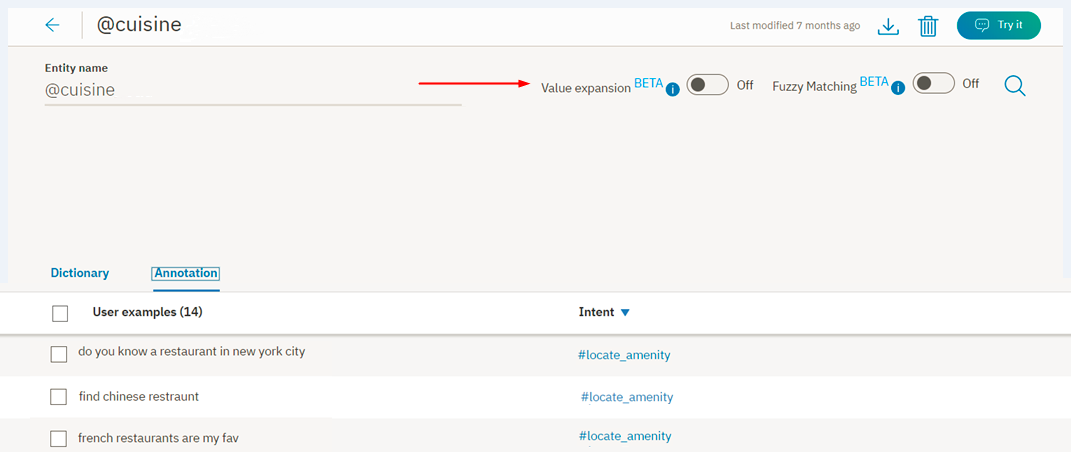
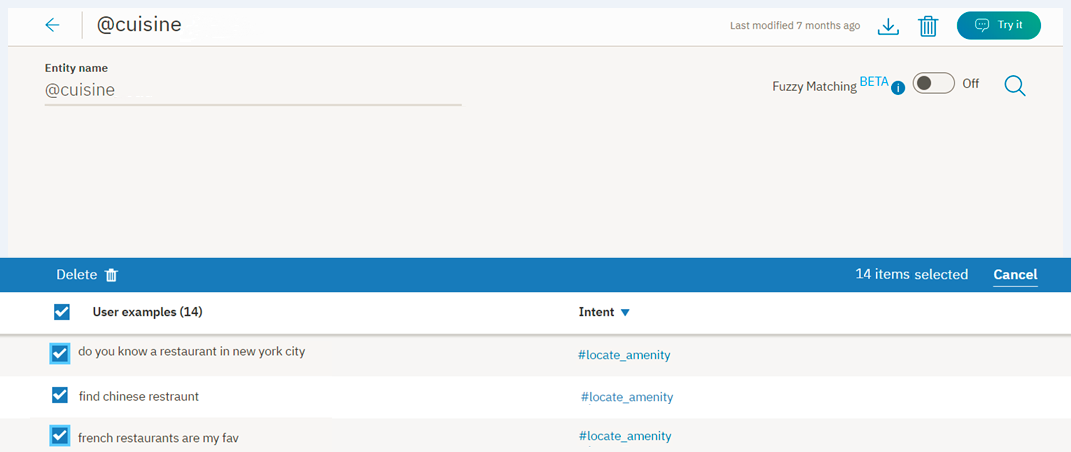
Updated contextual entities content for Beta

diff --git a/entities.md b/entities.md
@@ -2,7 +2,7 @@
 
 copyright:
   years: 2015, 2018
-lastupdated: "2018-06-12"
+lastupdated: "2018-06-26"
 
 ---
 
@@ -189,14 +189,14 @@ Use the {{site.data.keyword.conversationshort}} tool to create entities.
 
 The entity you created is added to the **Entities** tab, and the system begins to train itself on the new data.
 
-## Defining annotations for entities
+## Defining contextual entities
 
-When you define specific values for an entity, the service finds entity mentions only when a term in the user input exactly matches (or closely matches if fuzzy matching is enabled) a value or synonym defined. When you define annotations for an entity, a model is trained on both the entity *value* and the *context* in which the entity is used in sentences that you annotate. This new entity context model enables the service to calculate a confidence score that identifies how likely a word or phrase is to be an instance of an entity, based on how it is used in the user input.
+When you define specific values for an entity, the service finds entity mentions only when a term in the user input exactly matches (or closely matches if fuzzy matching is enabled) a value or synonym defined. When you define a contextual entity, a model is trained on both the entity *value* and the *context* in which the entity is used in sentences that you annotate. This new contextual entity model enables the service to calculate a confidence score that identifies how likely a word or phrase is to be an instance of an entity, based on how it is used in the user input.
 
-### Creating entity annotations from the **Intents** tab
+### Creating contextual entities from the **Intents** tab
 {: #create-open-entities}
 
-In order to train an annotated entity model, you can take advantage of your intent examples, which provide readily-available sentences to annotate. Using intent user examples to define entity annotations does not affect the classification of an intent.
+In order to train a contextual entity model, you can take advantage of your intent examples, which provide readily-available sentences to annotate. Using intent user examples to define contextual entities does not affect the classification of an intent.
 
 1.  In the {{site.data.keyword.conversationshort}} tool, open your skill and then click the **Intents** tab. If **Intents** is not visible, use the ![Menu](images/Menu_16.png) menu to open the page.
 
@@ -221,14 +221,33 @@ In order to train an annotated entity model, you can take advantage of your inte
     You can also create a new entity by choosing `@(create new entity)`.
 
 1.  Select `@product` to add `computer` as a value for that entity.
-1.  Now, click the annotation you just created. A box will appear with the words `Go to: @product` at the bottom.  Clicking that link will take you directly to the entity.
+
+    **NOTE**: You should create *at least* 10 annotations for each contextual entity; more annotations are recommended for production use.
+
+1.  Now, click the annotation you just created. A box will appear with the words `Go to: @product` at the bottom. Clicking that link will take you directly to the entity.
 
     ![Verify value computer for product entity](images/oe-verify-value.png)
+
+### Working with counterexamples
+
+If you have an intent example with an annotation, and a word in that example is part of your entity values, but the value is **not** annotated, it is considered a counterexample:
+
+1.  The `#Customer_Care_Appointments` intent includes two intent examples with the word `visit`.
+
+    ![Visit examples intent](images/oe-counter-1.png)
+
+1.  In the first example, you want to annotate the word `visit` as an entity value of the `@meeting` entity. This makes `visit` equivalent to other `@meeting` entity values such as `appointment`, as in "I'd like to make an appointment" or "I'd like to schedule a visit".
+
+    ![@meeting entity](images/oe-counter-2.png)
+
+1.  For the second example, the word `visit` is being used in a different context than a meeting. In this case, you can select the word `appointment` from the intent example, and annotate it as an entity value of the `@meeting` entity. Because the word `visit` in the same example is not annotated, it will serve as a counterexample.
+
+    ![Visit unselected](images/oe-counter-3.png)
 
 ### Viewing annotations from the **Entities** tab
 {: #annotate-open-entities}
 
-To see the intent examples you have used in annotating your entities:
+To see the intent examples you have used in annotating your contextual entities:
 
 1.  From the **Entities** tab, open an entity, for example, `@cuisine`.
 
@@ -240,11 +259,11 @@ To see the intent examples you have used in annotating your entities:
 
     If you have already [created annotated entities from the Intents tab](entities.html#create-open-entities), you will see a list of user examples with their associated intents.
 
-    If you want your entities to understand values that you have not explicitly defined, turn on the `Value expansion` option. With this option, the system makes predictions about additional entity values based on how your user examples are annotated, and uses those values to train other entities. Any similar user examples are added to the *Annotation* view, so you can see how this option impacts training.
+    **NOTE**: Contextual entities understand values that you have not explicitly defined. The system makes predictions about additional entity values based on how your user examples are annotated, and uses those values to train other entities. Any similar user examples are added to the *Annotation* view, so you can see how this option impacts training.
+
+    If you do not want your contextual entities to use this expanded understanding of entity values, select all the user examples in the *Annotation* view for that entity and choose **Delete**.
 
     ![Examples and intents list](images/oe-annotate3a.png)
-
-    **Note**: You can also delete annotations from this view by selecting user examples, and choosing **Delete**.
 
 ## Editing entities
 
